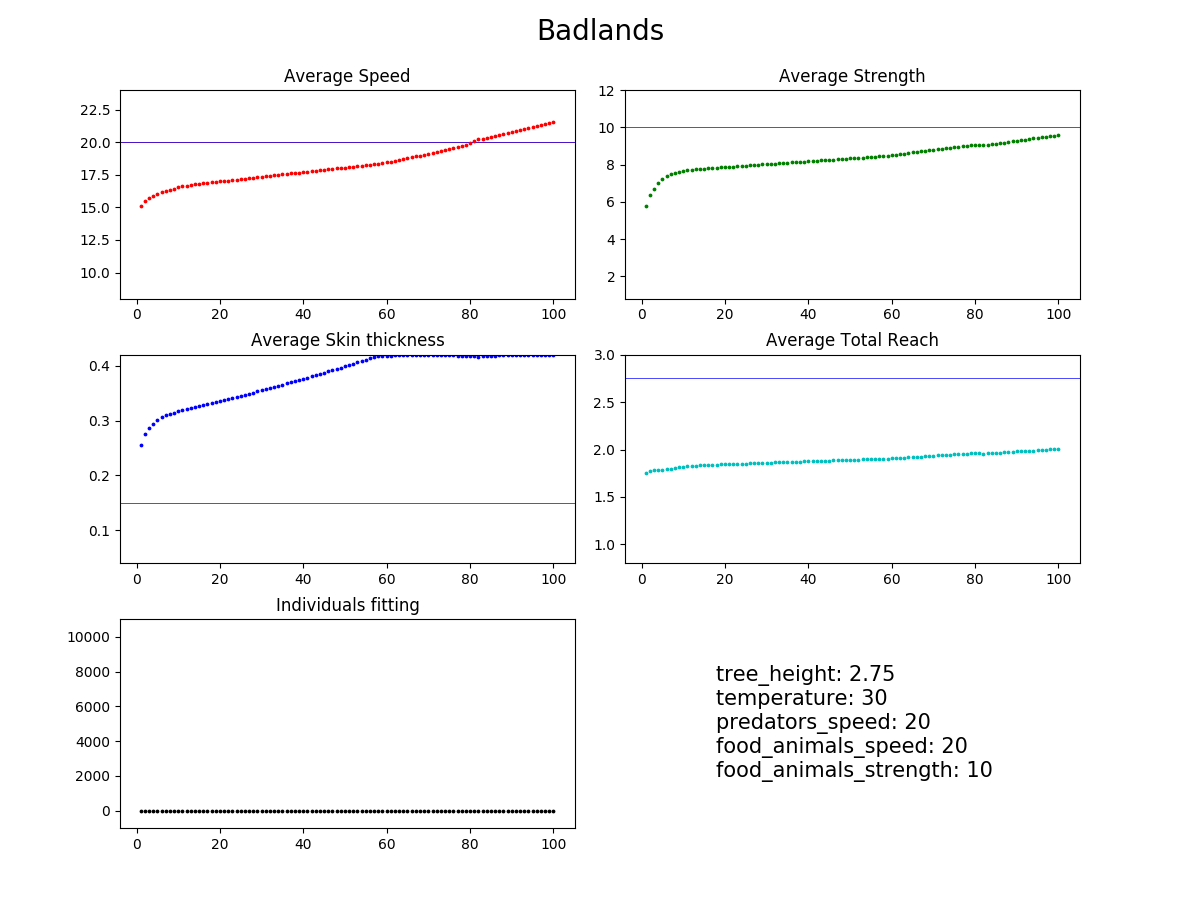
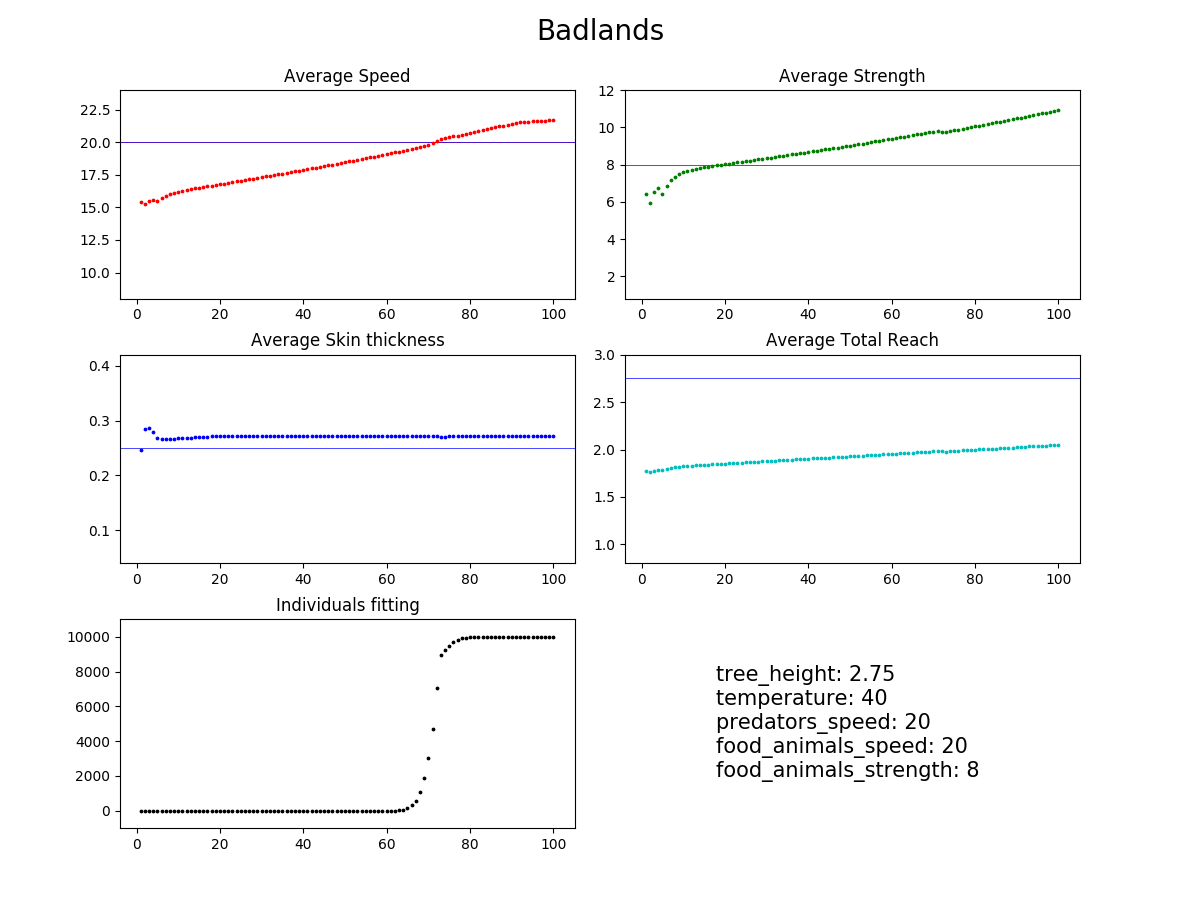
updated example params

diff --git a/settings/settings.py b/settings/settings.py
@@ -35,10 +35,10 @@ ENVIRONMENTS = {
     },
     'Badlands': {
         'tree_height': 2.75,
-        'temperature': 30,
+        'temperature': 40,
         'predators_speed': 20,
         'food_animals_speed': 20,
-        'food_animals_strength': 10
+        'food_animals_strength': 8
     }
 }
 
